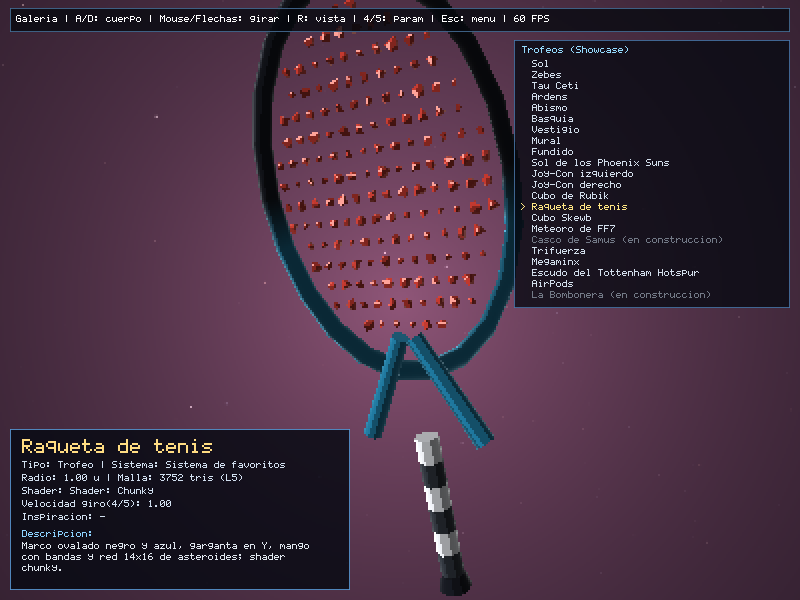
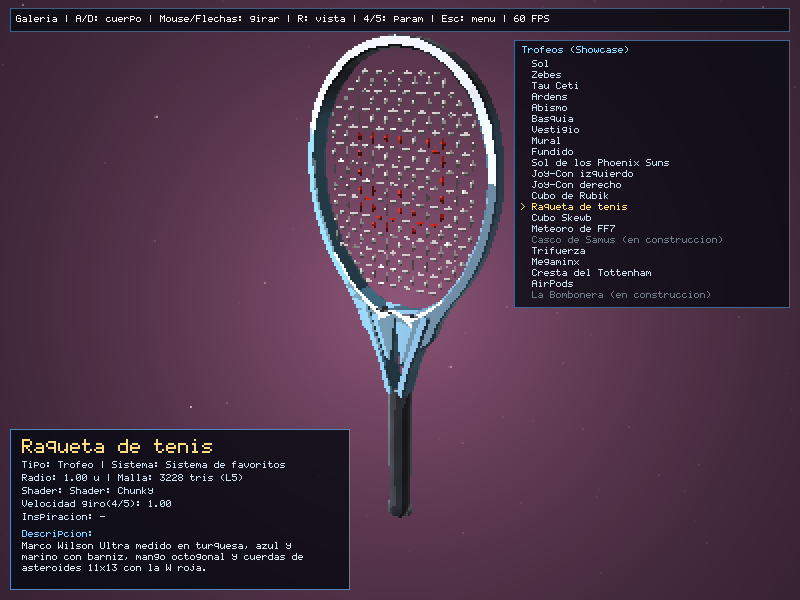
docs(readme): Actualizar la descripción de la raqueta y regenerar su captura.

diff --git a/docs/arquitectura.md b/docs/arquitectura.md
@@ -31,4 +31,4 @@
   - **Sol de los Phoenix Suns** (`Shader::PhoenixSuns`): placas emisivas extruidas con bisel de la explosión solar y estela de rayos medidas desde `refs/suns_logo.png` (`#F9A01B`) y balón de basquetbol 3D al frente (`#E56020` / `#934414`) con costuras giratorias y oscilación `±30°` (`1336` tris en detalle máximo).
   - **Cresta del Tottenham** (`Shader::Spurs`): silueta del gallo medida desde `refs/spurs_crest.jpg` extruida con bisel y sombreado chunky en 3 bandas sobre un balón 3D azul marino (`#001C58`) con costuras blancas, parche de cordones y oscilación `±35°` (`1300` tris en detalle máximo).
   - **AirPods** (`Shader::Chunky`): estuche redondeado (`~2.8:2.1:1`) con tapa a 70°, bisagra cilíndrica, LED frontal y auriculares espejados.
-  - **Raqueta de tenis** (`Shader::Chunky`): marco ovalado, garganta en Y, mango con bandas y cuerdas como asteroides dispersos en cuadrícula `14×16`.
+  - **Raqueta de tenis** (`Shader::Chunky` con barniz `material_id = 1`): Wilson Ultra medida desde `refs/raqueta.webp` (`docs/medidas-raqueta.md`), aro barrido con sección rectangular redondeada (`#61A4C5`→`#4C789E` y marino `#2D313C`), garganta en Y con puente, mango octogonal gris carbón con envoltura diagonal y cuerdas `11×13` de asteroides octaédricos alargados con el logo `W` rojo (`#C8261E`).
